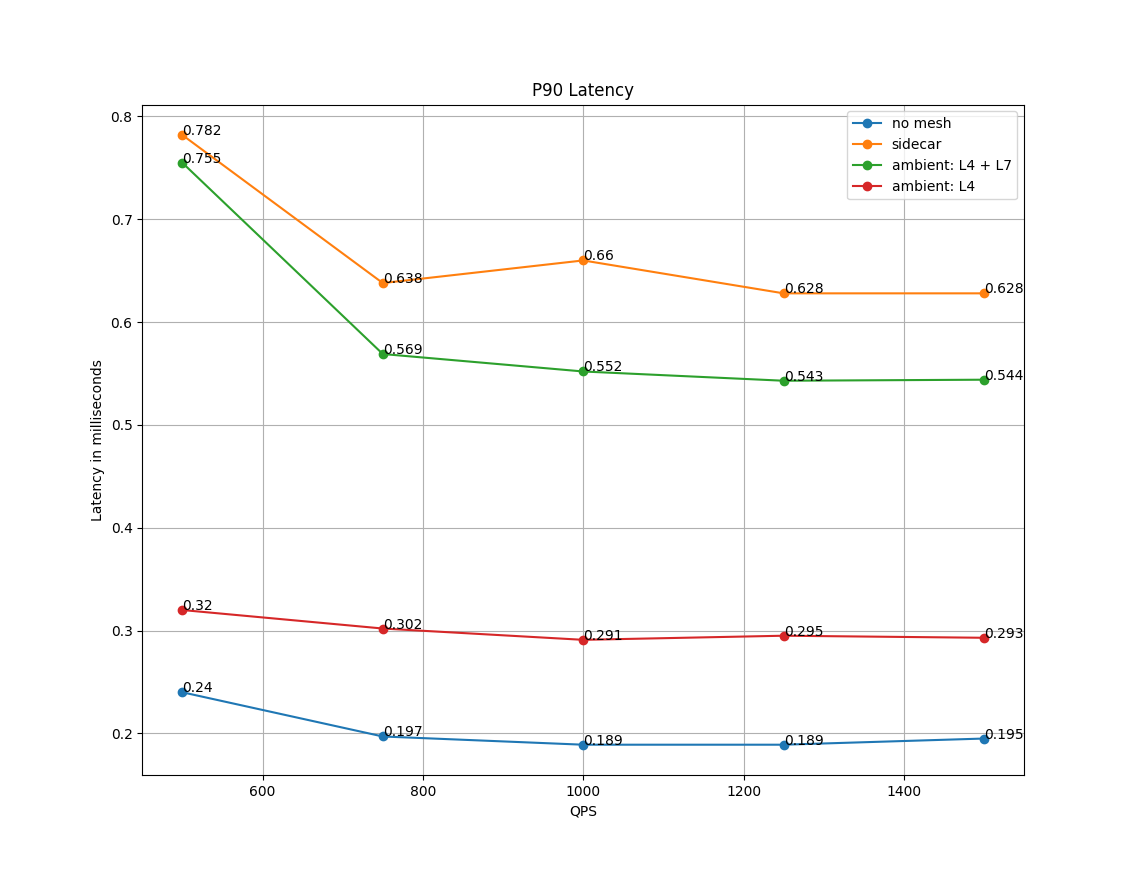
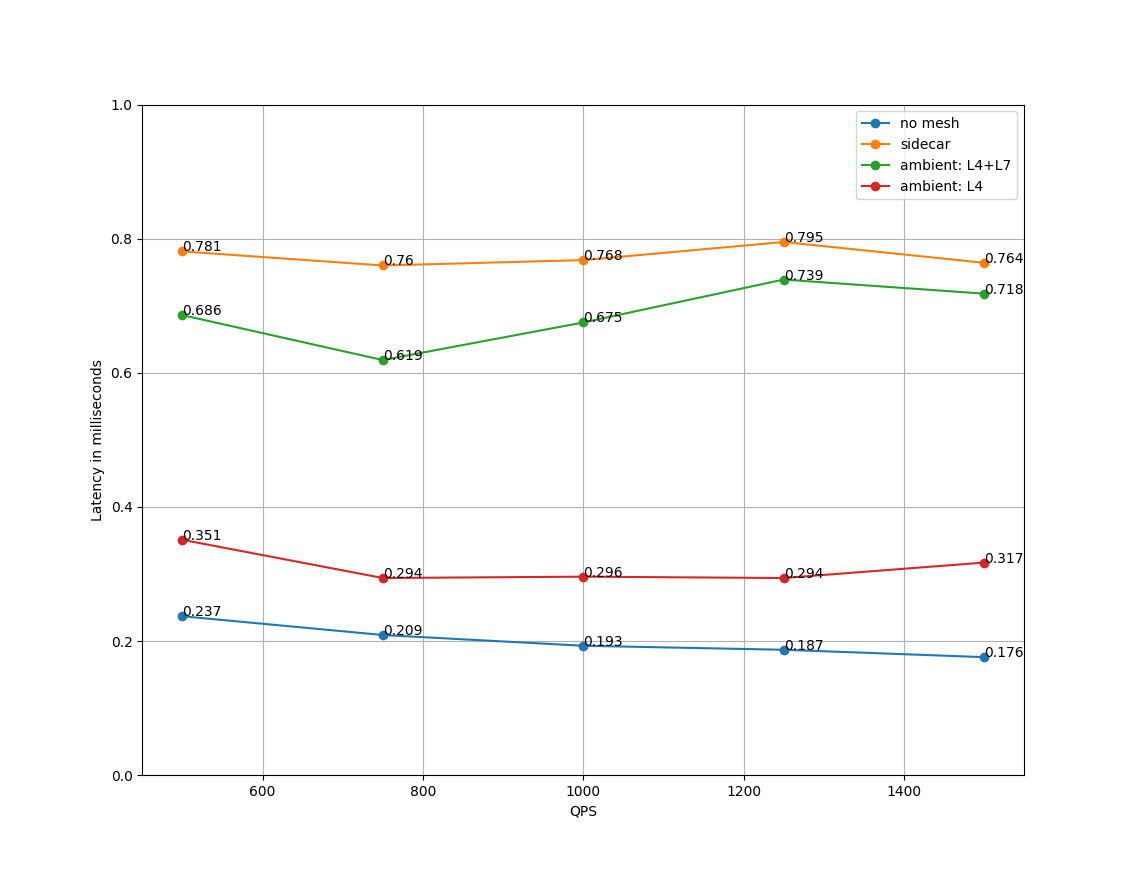
Use rc

diff --git a/content/en/docs/ops/deployment/performance-and-scalability/index.md b/content/en/docs/ops/deployment/performance-and-scalability/index.md
@@ -78,14 +78,13 @@ The latency, throughput, and the proxies' CPU and memory consumption are measure
 ### Sidecar CPU and memory usage
 
 Since the sidecar proxy performs additional work on the data path, it consumes CPU
-and memory. In Istio 1.24, with 1000 http requests per second containing 1 KB of payload each,
-* a sidecar proxy consumes about 30% CPU and 70 MB of memory.
-* a waypoint proxy consumes about 30% CPU and 55 MB of memory
-* a ztunnel proxy consumes about 7% CPU and 11 MB of memory.
+and memory. In Istio 1.24, with 1000 http requests per second containing 1 KB of payload each,j
+- a sidecar proxy with 4 worker threads consumes about 27% CPU and 61 MB of memory.
+- a waypoint proxy with 2 worker threads consumes about 41% CPU and 57 MB of memory
+- a ztunnel proxy consumes about 7% CPU and 12 MB of memory.
 
 The memory consumption of the proxy depends on the total configuration state the proxy holds.
 A large number of listeners, clusters, and routes can increase memory usage.
-In a large namespace with [namespace isolation](/docs/reference/config/networking/sidecar/) enabled, the proxy consumes approximately 50 MB of memory.
 
 Since the proxy normally doesn't buffer the data passing through,
 request rate doesn't affect the memory consumption.
@@ -130,7 +129,7 @@ Different hardware will give different values.
 
 - `no mesh`: Client pod directly calls the server pod, no pods in Istio service mesh.
 - `ambient: L4`: Default ambient mode with the {{< gloss >}}secure L4 overlay{{< /gloss >}}
-- `ambient: L4 + L7` Default ambient mode with the secure L4 overlay and waypoints enabled for the namespace.
+- `ambient: L4+L7` Default ambient mode with the secure L4 overlay and waypoints enabled for the namespace.
 - `sidecar` Client and server sidecars.
 
 ### Benchmarking tools
